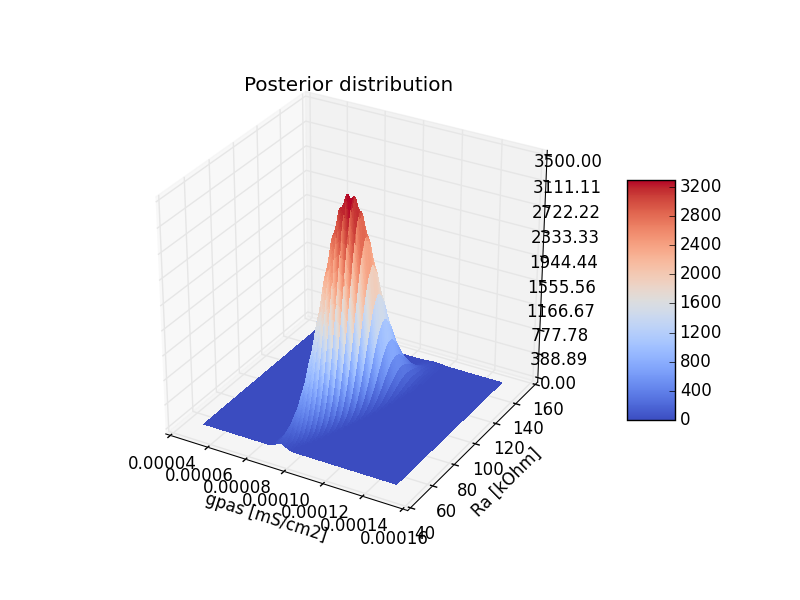
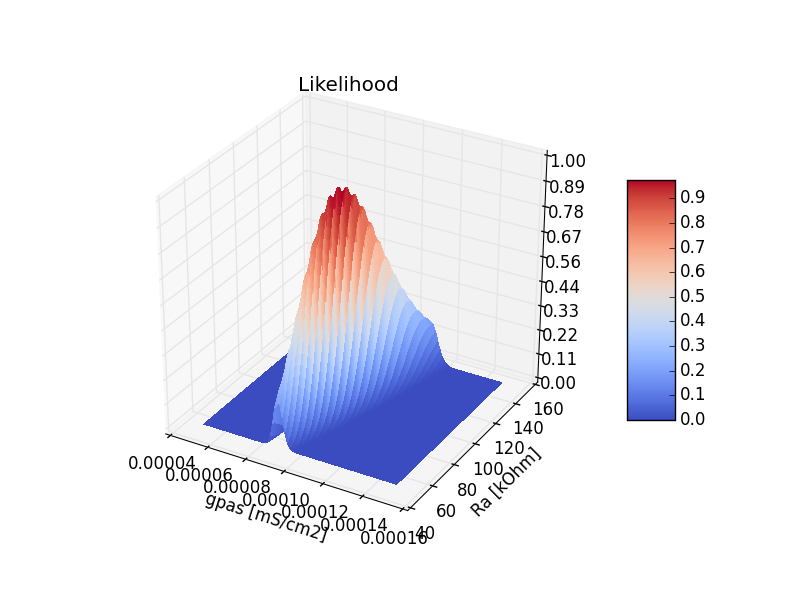
Second big commit

diff --git a/white_noise_inf3.py b/white_noise_inf3.py
@@ -63,6 +63,7 @@ posterior = posterior / (np.sum(posterior) * Ra_step * gpas_step)
 # Marginalize
 Ra_posterior = np.sum(posterior, axis=1) * gpas_step
 Ra_prior = np.sum(prior, axis=1) * gpas_step
+Ra_likelihood = np.sum(likelihood, axis=1) * gpas_step
 
 plt.figure()
 plt.title("Stick and ball model posterior (r) and prior (b) distribution for Ra ")
@@ -72,6 +73,14 @@ plt.axvline(Ra, color='g')
 plt.plot(Ra_values, Ra_posterior, 'r')
 plt.plot(Ra_values, Ra_prior, 'b')
 plt.savefig("Ra_posterior.png")
+
+plt.figure()
+plt.title("Stick and ball model likelihood (y) distribution for Ra ")
+plt.xlabel("Axial resistance (Ra) [kOhm]")
+plt.ylabel("probability")
+plt.axvline(Ra, color='g')
+plt.plot(Ra_values, Ra_likelihood, color='#A81A28')
+plt.savefig("Ra_likelihood.png")
 
 
 fig = plt.figure()
@@ -85,7 +94,7 @@ surf = ax.plot_surface(x, y, likelihood, rstride=1, cstride=1, cmap=CM.coolwarm,
 ax.zaxis.set_major_locator(LinearLocator(10))
 ax.zaxis.set_major_formatter(FormatStrFormatter('%.02f'))
 fig.colorbar(surf, shrink=0.5, aspect=5)
-plt.savefig("posterior.png")
+plt.savefig("likelihood.png")
 
 
 fig = plt.figure()
@@ -99,7 +108,7 @@ surf = ax.plot_surface(x, y, posterior, rstride=1, cstride=1, cmap=CM.coolwarm, 
 ax.zaxis.set_major_locator(LinearLocator(10))
 ax.zaxis.set_major_formatter(FormatStrFormatter('%.02f'))
 fig.colorbar(surf, shrink=0.5, aspect=5)
-plt.savefig("likelihood.png")
+plt.savefig("posterior.png")
 
 inferred_cm = Ra_values[np.argmax(Ra_posterior)]
 posterior_sharpness = sharpness(Ra_values, Ra_posterior)

diff --git a/README.md b/README.md
@@ -22,7 +22,7 @@ _white_noise_inf3.py_
 _wn3_
 
 ### with colored noise
-4. One compartment passive model parameter (membrane capacitance'cm' and passive conductance 'gpas' ) inference:
+4. One compartment passive model parameter (membrane capacitance'cm' and passive conductance 'gpas' ) inference: 
 **code:**
 _colored_noise_inf1.py_
 **result:**
